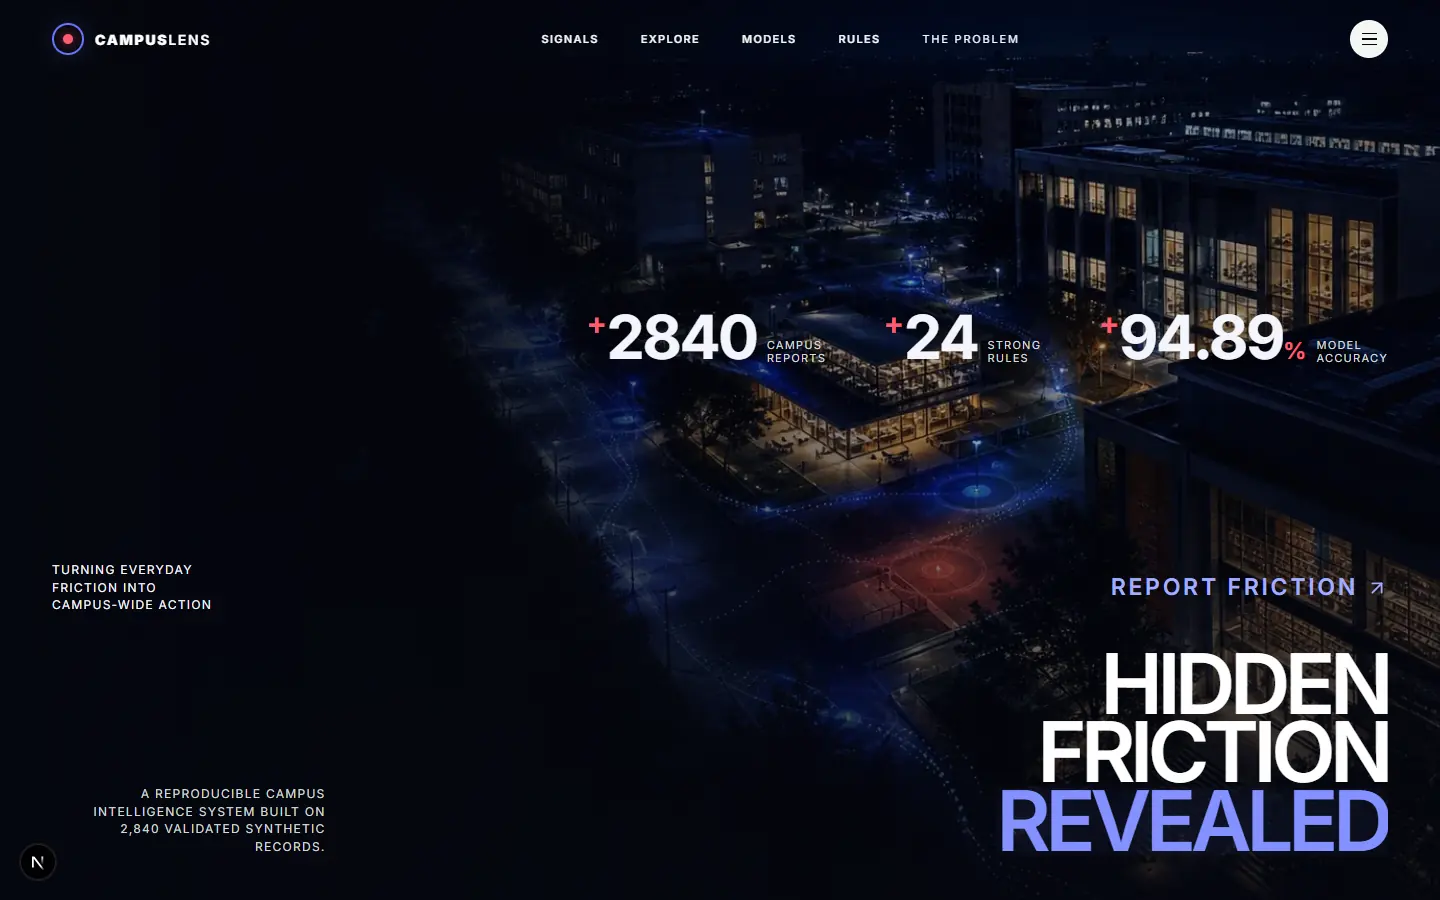
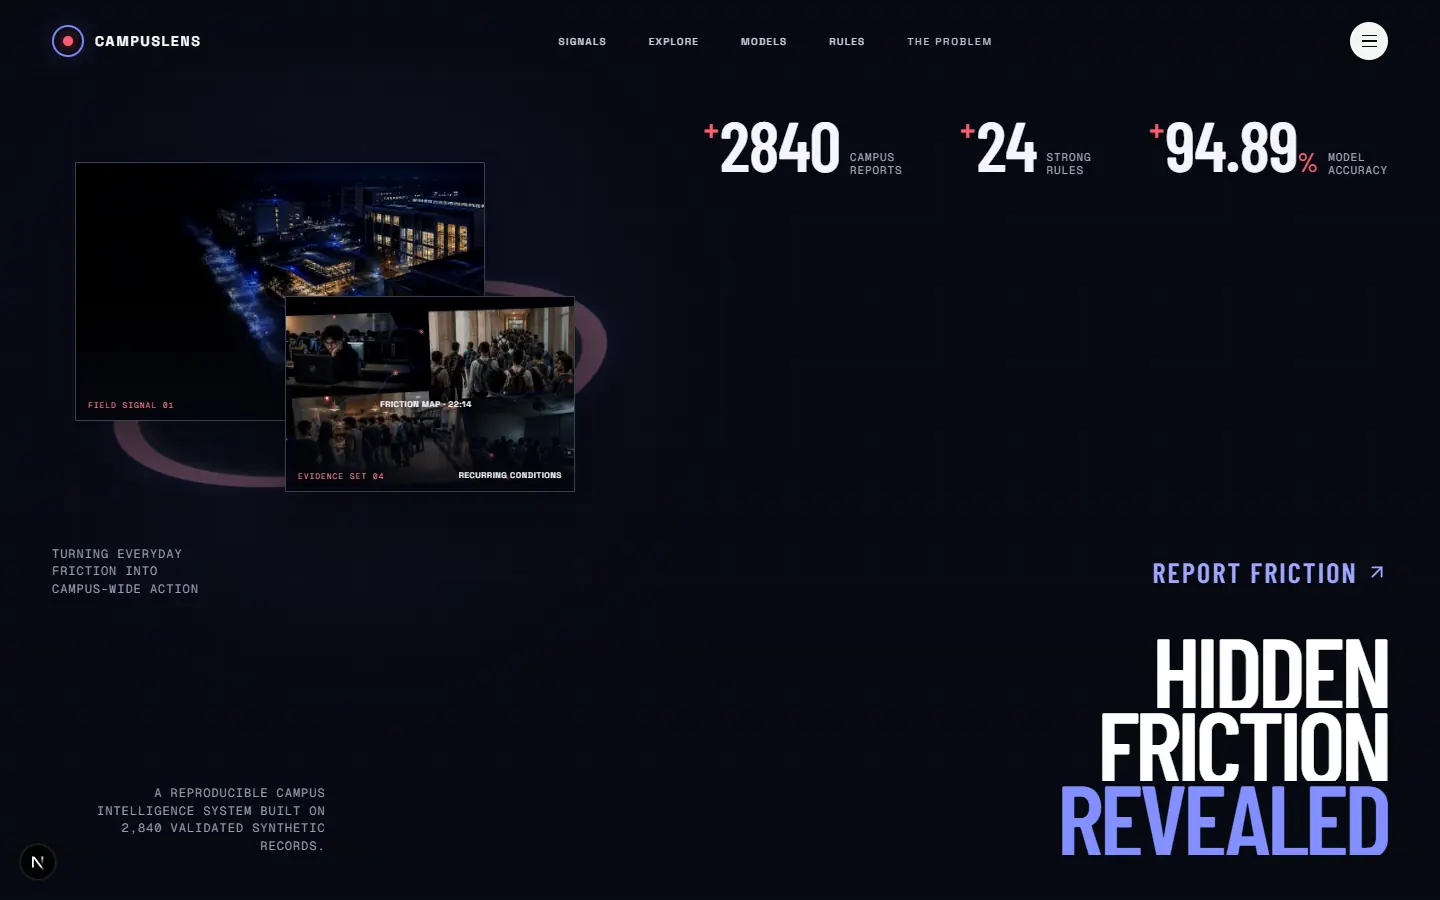
Restore orbital landing with editorial imagery

diff --git a/app/globals.css b/app/globals.css
@@ -178,3 +178,31 @@
 .problem-outcome{padding:clamp(90px,12vw,170px) clamp(20px,7vw,110px) 60px;background:radial-gradient(circle at 75% 40%,rgba(99,119,255,.22),transparent 34%),#0b0e1b}.problem-outcome>p{color:#a1a9c2;max-width:480px;line-height:1.6}.problem-outcome h2{font-family:var(--font-sora);font-size:clamp(3.3rem,9vw,10rem);font-weight:500;line-height:.84;letter-spacing:-.08em;margin:60px 0}.problem-outcome h2 span{color:#7e8eff}.problem-outcome>div{display:flex;align-items:center;justify-content:space-between;border-top:1px solid #303653;padding-top:28px}.problem-outcome a{display:flex;align-items:center;gap:10px;color:#fff;text-decoration:none;text-transform:uppercase;letter-spacing:.1em;font-size:11px}.problem-outcome a:hover{color:#9ba6ff}.problem-outcome small{color:#747e9c;text-transform:uppercase;letter-spacing:.1em;font-size:8px}
 @media(max-width:900px){.problem-thesis,.problem-shift{grid-template-columns:1fr}.blindspot-grid{grid-template-columns:1fr 1fr}.blindspot-grid article:nth-child(2){border-right:0}.blindspot-grid article{border-bottom:1px solid #252b44}.problem-visual{min-height:330px}.research-statement{min-height:580px}}
 @media(max-width:600px){.problem-nav{height:66px}.problem-back{font-size:0}.problem-back svg{width:20px;height:20px}.problem-hero{padding-top:70px}.problem-hero h1{font-size:clamp(2.8rem,14vw,4.5rem)}.problem-intro{margin-left:0}.problem-visual{aspect-ratio:.85;min-height:0}.problem-visual img{object-position:center}.problem-visual-label{left:20px;right:auto;text-align:left}.problem-thesis{padding-top:90px;padding-bottom:90px}.blindspot-grid{grid-template-columns:1fr}.blindspot-grid article{border-right:0;min-height:290px}.blindspot-grid h3{margin-top:55px}.research-statement{min-height:620px}.research-orbit{width:110vw;right:-55%}.shift-steps>div{grid-template-columns:60px 1fr auto;gap:10px}.problem-outcome>div{align-items:flex-start;gap:26px;flex-direction:column}.problem-outcome h2{margin:45px 0 60px}}
+
+/* Restored orbital landing composition with editorial evidence imagery */
+.landing-page{--landing-accent:#7788ff;--landing-alert:#ff5b6e;background:#070912;font-family:var(--font-space-grotesk),sans-serif;letter-spacing:.04em}
+.landing-page button,.landing-links a{font-family:var(--font-space-grotesk),sans-serif}
+.landing-nav{background:linear-gradient(180deg,rgba(7,9,18,.88),rgba(7,9,18,0));padding-top:22px}
+.landing-brand{font-weight:600;letter-spacing:.025em}.landing-links{letter-spacing:.08em}.landing-links button,.landing-links a{color:#c7ccdc;font-size:10px}.landing-links button:hover,.landing-links a:hover{color:#fff}
+.landing-hero{background-color:#070912;background-image:linear-gradient(rgba(255,255,255,.022) 1px,transparent 1px),linear-gradient(90deg,rgba(255,255,255,.022) 1px,transparent 1px);background-size:72px 72px}
+.landing-video-overlay{background:radial-gradient(circle at 25% 37%,rgba(99,119,255,.08),transparent 32%),linear-gradient(0deg,rgba(7,9,18,.72),transparent 48%)}
+.landing-orbital{left:1.5%;top:5%;width:min(47vw,680px);opacity:.72;z-index:0;filter:drop-shadow(0 24px 80px rgba(0,0,0,.7));transform:rotate(-11deg)}
+.landing-orbital i{inset:13%;border-width:clamp(11px,1.8vw,26px);border-color:rgba(99,119,255,.34);box-shadow:inset 0 0 26px rgba(255,255,255,.07),0 0 34px rgba(99,119,255,.06)}
+.landing-orbital i:nth-child(2){border-color:rgba(255,91,110,.22)}.landing-orbital i:nth-child(3){border-color:rgba(255,180,77,.19)}
+.landing-orbital b{background:#7788ff;box-shadow:0 0 48px rgba(99,119,255,.55)}
+.landing-media-stack{position:absolute;z-index:2;left:5.2%;top:18%;width:min(35vw,500px);height:330px;pointer-events:none}
+.landing-media-stack figure{margin:0;position:absolute;overflow:hidden;border:1px solid rgba(178,187,226,.27);background:#0c1020;box-shadow:0 22px 60px rgba(0,0,0,.48)}
+.landing-media-stack img{object-fit:cover;filter:saturate(.78) contrast(1.08)}
+.landing-media-primary{left:0;top:0;width:82%;aspect-ratio:1.58;transform:rotate(-1.7deg)}
+.landing-media-secondary{right:0;bottom:0;width:58%;aspect-ratio:1.48;transform:rotate(2.5deg)}
+.landing-media-stack figure:after{content:"";position:absolute;inset:0;background:linear-gradient(0deg,rgba(6,8,16,.78),transparent 48%)}
+.landing-media-stack figcaption{position:absolute;z-index:2;inset:auto 12px 10px;display:flex;align-items:flex-end;justify-content:space-between;gap:10px;text-transform:uppercase}
+.landing-media-stack figcaption span{color:#ff7b8a;font:8px var(--font-geist-mono);letter-spacing:.12em}.landing-media-stack figcaption b{color:#f4f5fb;font-size:8px;font-weight:500;letter-spacing:.08em}
+.landing-stats{z-index:3;padding-top:3vh;align-items:flex-start}.landing-stat strong{font-family:var(--font-barlow-condensed),sans-serif;font-weight:600;font-size:clamp(2rem,5vw,4.4rem);letter-spacing:-.015em}.landing-stat strong>span,.landing-stat strong small{color:var(--landing-alert)}.landing-stat p{font-family:var(--font-geist-mono);color:#9ea6bd;letter-spacing:.08em}
+.landing-bottom{z-index:3}.landing-bottom-a>p,.landing-bottom-b>p{font-family:var(--font-geist-mono);color:#949db7;letter-spacing:.08em}.landing-bottom-a>button{color:#9ca8ff;font-family:var(--font-barlow-condensed),sans-serif;font-size:clamp(18px,2vw,28px);letter-spacing:.08em}.landing-bottom-a>button:hover{color:#fff}
+.landing-headline{font-family:var(--font-barlow-condensed),sans-serif}.landing-headline b{font-family:inherit;font-size:clamp(3.2rem,7.1vw,7.5rem);font-weight:600;line-height:.72;letter-spacing:-.045em}.landing-headline>span:last-child b{color:#8290ff;text-shadow:none}
+.orbit-logo{border-color:#7788ff}.orbit-logo i{background:var(--landing-alert)}
+.landing-menu-overlay{font-family:var(--font-space-grotesk),sans-serif}.landing-menu-links button,.landing-menu-links a{font-family:var(--font-barlow-condensed),sans-serif;font-weight:600;letter-spacing:.015em}.landing-menu-report{font-family:var(--font-barlow-condensed),sans-serif;color:#9ca8ff}
+@media(max-width:980px){.landing-media-stack{left:3%;width:39vw}.landing-headline b{font-size:clamp(3rem,8.2vw,6.2rem)}.landing-stats{gap:25px}}
+@media(max-width:767px){.landing-hero{background-size:48px 48px}.landing-orbital{width:100vw;left:-46%;top:8%;opacity:.46}.landing-media-stack{left:-5%;top:14%;width:62vw;height:245px;opacity:.76}.landing-media-primary{width:78%}.landing-media-secondary{width:54%;right:-2%;bottom:4%}.landing-media-stack figcaption{inset:auto 7px 7px}.landing-media-stack figcaption span{font-size:5px}.landing-media-stack figcaption b{font-size:5px}.landing-stats{padding-top:12vh;gap:13px}.landing-stat strong{font-size:1.8rem}.landing-bottom{gap:18px}.landing-headline b{font-size:clamp(3.1rem,16.2vw,5rem);line-height:.73}.landing-bottom-a>button{font-size:16px}.landing-bottom-b>p{font-size:6px}}
+@media(max-width:430px){.landing-media-stack{top:16%;height:215px}.landing-stats{padding-top:14vh}.landing-stat strong{font-size:1.45rem}.landing-stat p{font-size:6px}.landing-headline b{font-size:clamp(3rem,15.7vw,4.35rem)}}

diff --git a/app/page.tsx b/app/page.tsx
@@ -75,7 +75,17 @@ function Landing({ onEnter, onReport, onNavigate }: { onEnter: () => void; onRep
       <motion.button custom={5} initial="hidden" animate="visible" variants={fadeDown} className="landing-menu-button" onClick={() => setMenuOpen(true)} aria-label="Open menu"><span /><span /><span /></motion.button>
     </nav>
     <section className="landing-hero">
-      <Image className="landing-hero-image" src="/images/brand/campus-night-map.webp" alt="A nocturnal campus with data trails revealing hidden operational hotspots" fill priority sizes="100vw" />
+      <div className="landing-orbital" aria-hidden="true"><i /><i /><i /><b /></div>
+      <div className="landing-media-stack" aria-label="Campus friction evidence">
+        <motion.figure custom={3} initial="hidden" animate="visible" variants={fadeUp} className="landing-media-primary">
+          <Image src="/images/brand/campus-night-map.webp" alt="Nocturnal campus hotspots connected by data trails" fill priority sizes="(max-width: 767px) 58vw, 31vw" />
+          <figcaption><span>Field signal 01</span><b>Friction map · 22:14</b></figcaption>
+        </motion.figure>
+        <motion.figure custom={4} initial="hidden" animate="visible" variants={fadeUp} className="landing-media-secondary">
+          <Image src="/images/brand/campus-friction-collage.webp" alt="Campus network, crowding, queue and projector problems" fill sizes="(max-width: 767px) 43vw, 21vw" />
+          <figcaption><span>Evidence set 04</span><b>Recurring conditions</b></figcaption>
+        </motion.figure>
+      </div>
       <div className="landing-video-overlay" />
       <div className="landing-stats" aria-label="CampusLens verified dataset statistics">
         {[[String(analyticsArtifact.datasetCount), "CAMPUS\nREPORTS"], [String(analyticsArtifact.association.rules.length), "STRONG\nRULES"], [String(analyticsArtifact.models.models[0].accuracy), "MODEL\nACCURACY"]].map(([value, label], index) => <motion.div custom={index + 2} initial="hidden" animate="visible" variants={fadeUp} className="landing-stat" key={label}><strong><span>+</span>{value}{label.startsWith("MODEL") && <small>%</small>}</strong><p>{label}</p></motion.div>)}

diff --git a/app/layout.tsx b/app/layout.tsx
@@ -1,11 +1,13 @@
 import type { Metadata, Viewport } from "next";
-import { Geist, Geist_Mono, Inter, Sora } from "next/font/google";
+import { Barlow_Condensed, Geist, Geist_Mono, Inter, Sora, Space_Grotesk } from "next/font/google";
 import "./globals.css";
 
 const geistSans = Geist({ variable: "--font-geist-sans", subsets: ["latin"] });
 const geistMono = Geist_Mono({ variable: "--font-geist-mono", subsets: ["latin"] });
 const sora = Sora({ variable: "--font-sora", subsets: ["latin"], weight: ["300","400","500","600","700"] });
 const inter = Inter({ variable: "--font-inter", subsets: ["latin"] });
+const spaceGrotesk = Space_Grotesk({ variable: "--font-space-grotesk", subsets: ["latin"], weight: ["400", "500", "600", "700"] });
+const barlowCondensed = Barlow_Condensed({ variable: "--font-barlow-condensed", subsets: ["latin"], weight: ["500", "600", "700"] });
 
 const siteUrl = process.env.NEXT_PUBLIC_SITE_URL
   ?? (process.env.VERCEL_URL ? `https://${process.env.VERCEL_URL}` : "http://localhost:3000");
@@ -25,5 +27,5 @@ export const viewport: Viewport = {
 };
 
 export default function RootLayout({ children }: Readonly<{ children: React.ReactNode }>) {
-  return <html lang="en"><body className={`${geistSans.variable} ${geistMono.variable} ${sora.variable} ${inter.variable}`}>{children}</body></html>;
+  return <html lang="en"><body className={`${geistSans.variable} ${geistMono.variable} ${sora.variable} ${inter.variable} ${spaceGrotesk.variable} ${barlowCondensed.variable}`}>{children}</body></html>;
 }
